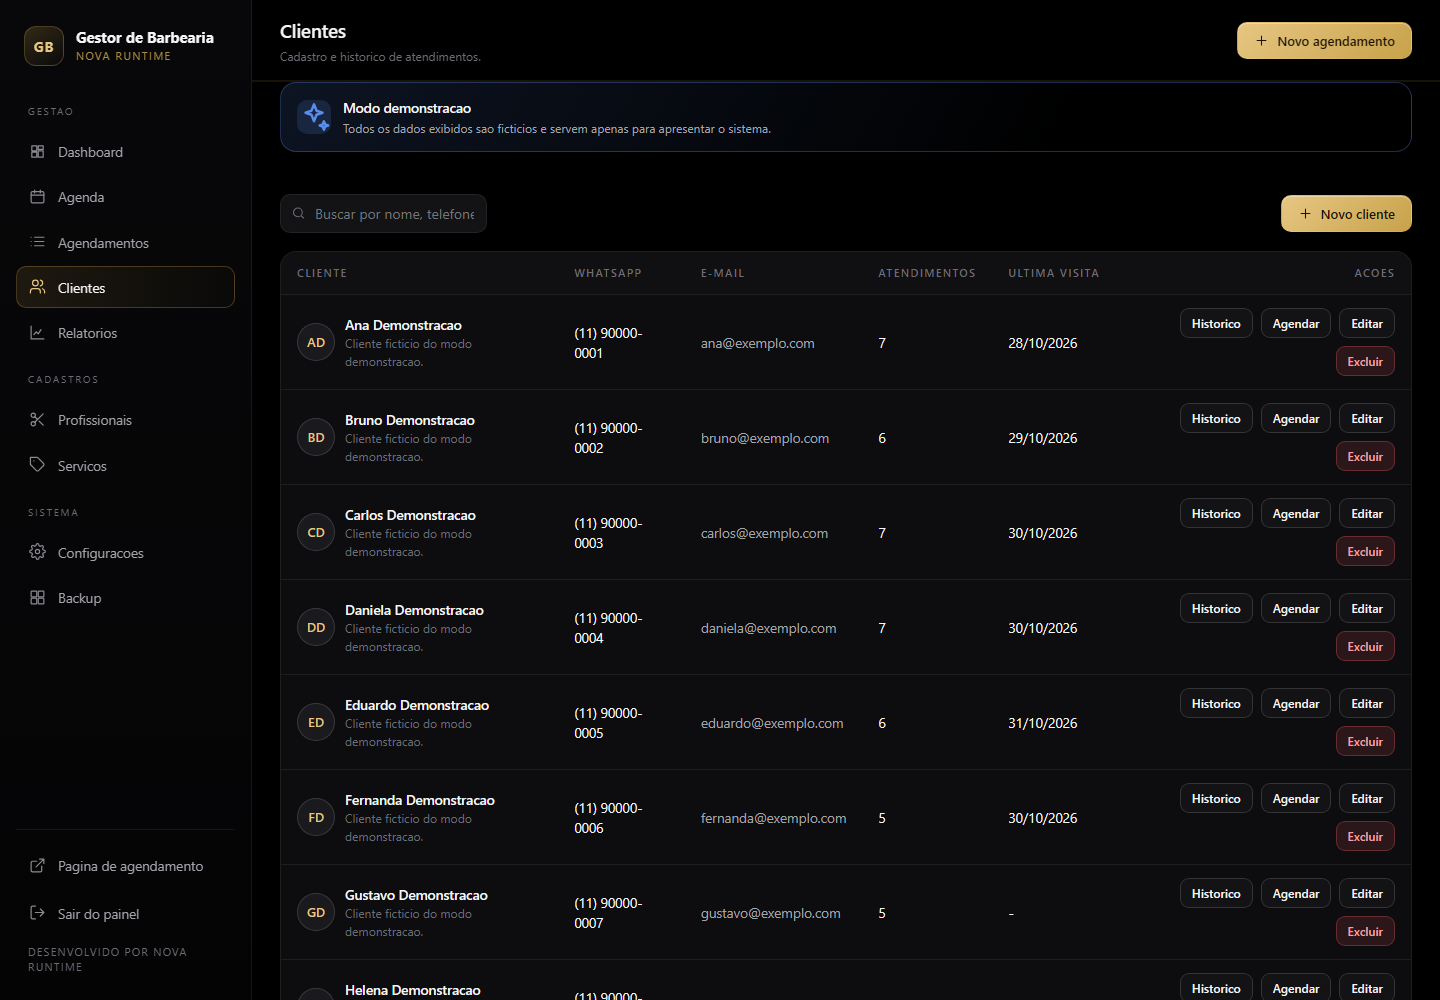
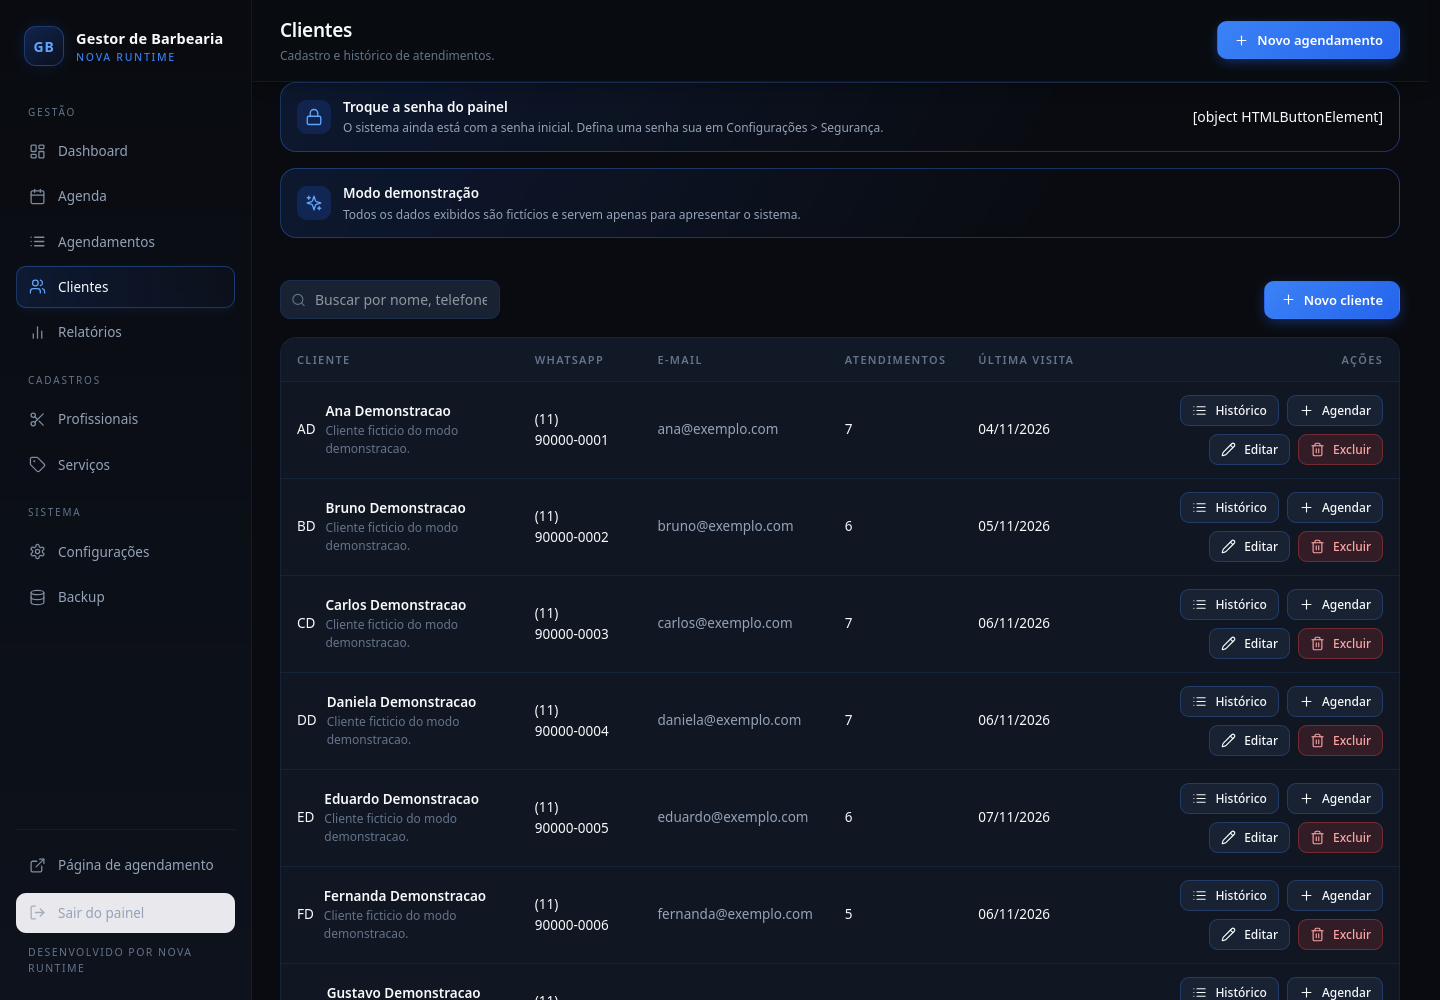
chore(docs): atualizar fotos de demonstracao do sistema e automacao de capturas

diff --git a/server/db.js b/server/db.js
@@ -102,9 +102,6 @@ CREATE INDEX IF NOT EXISTS idx_appointments_date        ON appointments(date);
 CREATE INDEX IF NOT EXISTS idx_appointments_barber_date ON appointments(barber_id, date);
 CREATE INDEX IF NOT EXISTS idx_appointments_client      ON appointments(client_id);
 CREATE INDEX IF NOT EXISTS idx_appointments_status      ON appointments(status);
-CREATE UNIQUE INDEX IF NOT EXISTS idx_appointments_cancel_token
-  ON appointments(cancel_token)
-  WHERE cancel_token IS NOT NULL;
 
 -- Garante, no proprio banco, que nao existam dois agendamentos ativos
 -- para o mesmo barbeiro no mesmo dia e com o mesmo horario inicial.
@@ -354,10 +351,10 @@ export async function initDatabase(options = {}) {
     const hasCancelToken = tableCols.some((col) => col.name === 'cancel_token');
     if (!hasCancelToken) {
       await driver.exec('ALTER TABLE appointments ADD COLUMN cancel_token TEXT');
-      await driver.exec(
-        'CREATE UNIQUE INDEX IF NOT EXISTS idx_appointments_cancel_token ON appointments(cancel_token) WHERE cancel_token IS NOT NULL'
-      );
     }
+    await driver.exec(
+      'CREATE UNIQUE INDEX IF NOT EXISTS idx_appointments_cancel_token ON appointments(cancel_token) WHERE cancel_token IS NOT NULL'
+    );
   } catch {
     /* coluna ou indice ja existente */
   }

diff --git a/public/js/app.js b/public/js/app.js
@@ -2324,7 +2324,8 @@ const VIEWS = {
 };
 
 function currentViewFromHash() {
-  const key = (location.hash || '').replace(/^#\/?/, '');
+  const params = new URLSearchParams(window.location.search);
+  const key = (location.hash || '').replace(/^#\/?/, '') || params.get('view');
   return NAV.some((item) => item.key === key) ? key : 'dashboard';
 }
 
@@ -2357,7 +2358,7 @@ function boot() {
     .get('/api/auth/me')
     .then((me) => {
       state.me = me;
-      if (!me.authenticated) {
+      if (!me.authenticated || currentViewFromHash() === 'login') {
         renderLogin();
         return;
       }

diff --git a/server/routes/auth.routes.js b/server/routes/auth.routes.js
@@ -66,4 +66,16 @@ export const authRoutes = [
       body: statusPayload(req, isAuthenticated(req)),
     }),
   },
+  {
+    method: 'GET',
+    path: '/api/auth/demo-session',
+    auth: false,
+    handler: ({ req, res, query }) => {
+      if (!isDemoMode()) throw new HttpError(403, 'Apenas em modo demonstracao.');
+      startSession(res, { secure: isSecureRequest(req) });
+      const view = query.view || 'dashboard';
+      res.writeHead(302, { Location: `/#${view}` });
+      res.end();
+    },
+  },
 ];

diff --git a/server/auth.js b/server/auth.js
@@ -124,6 +124,7 @@ export function endSession(res, { secure = false } = {}) {
 }
 
 export function isAuthenticated(req) {
+  if (process.env.DEMO_AUTO_AUTH === '1') return true;
   const cookies = parseCookies(req);
   return verifySessionToken(cookies[SESSION_COOKIE]);
 }
